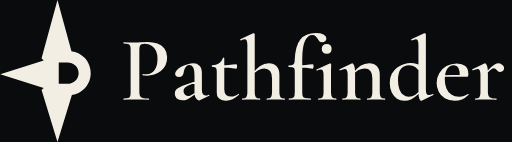
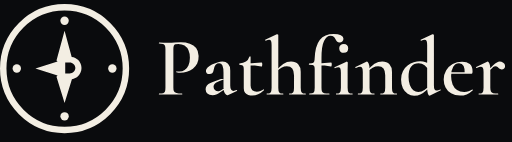
feat: Dial component and dial brand assets

Changed region(s): [[0.0, 0.0, 1.0, 0.9859]]

diff --git a/src/components/Dial.tsx b/src/components/Dial.tsx
@@ -1,0 +1,48 @@
+// The Pathfinder logo. Drawn from the brand file's `dial` and `mark` components
+// (Figma YvFbHaXgIBzzJlHoHpuzyw). The colour comes from currentColor, set to the
+// --brand-mark token, so the logo follows tokens.json.
+
+/** Below this size the dots stop reading, so the logo drops to the star alone. */
+export const DIAL_MIN_SIZE = 24
+
+const dots: ReadonlyArray<readonly [number, number]> = [[100, 26], [174, 100], [100, 174], [26, 100]]
+
+// The compass rose P on the dial's 200 grid: 112 tall, ray crossing at (100, 100).
+const dialStar =
+  'M111.03 81.9359C114.845 82.3962 118.42 84.1318 121.165 86.8969C124.396 90.1524 126.211 94.5682 126.211 99.1722C126.211 103.776 124.396 108.192 121.165 111.448C118.501 114.131 115.054 115.844 111.366 116.364L100 153.493L87.4624 112.537L89.1343 110.866L54.8657 100L89.1343 89.1342L87.4624 87.4623L99.9995 41.4926L111.03 81.9359ZM101.011 90.7728V107.573H107.846C110.192 107.573 112.442 106.688 114.101 105.113C115.76 103.537 116.691 101.4 116.691 99.1722C116.691 96.9446 115.76 94.808 114.101 93.2328C112.442 91.6575 110.192 90.7728 107.846 90.7728H101.011Z'
+
+// The compass rose P alone, the mark's own drawing (brand/mark.svg).
+const markStar =
+  'M65.445 36.1104C68.8512 36.5213 72.0433 38.0711 74.4938 40.54C77.379 43.4468 78.9997 47.3892 78.9997 51.5C78.9997 55.6108 77.379 59.5532 74.4938 62.46C72.1151 64.8565 69.0376 66.386 65.7438 66.8496L55.5974 100L44.403 63.4326L45.8952 61.9404L15.2985 52.2393L45.8952 42.5371L44.403 41.0449L55.5974 0L65.445 36.1104ZM56.4997 44V59H62.6022C64.6968 59 66.7061 58.2102 68.1872 56.8037C69.6683 55.3972 70.4997 53.4891 70.4997 51.5C70.4997 49.5109 69.6683 47.6028 68.1872 46.1963C66.7061 44.7898 64.6968 44 62.6022 44H56.4997Z'
+
+export interface DialProps {
+  size?: number
+  label?: string
+}
+
+export function Dial({ size = 40, label = 'Pathfinder' }: DialProps) {
+  const full = size >= DIAL_MIN_SIZE
+  return (
+    <svg
+      width={size}
+      height={size}
+      viewBox={full ? '0 0 200 200' : '-2.8 0 100 100'}
+      fill="none"
+      role="img"
+      aria-label={label}
+      style={{ color: 'var(--brand-mark)', flexShrink: 0 }}
+    >
+      {full ? (
+        <>
+          <circle cx={100} cy={100} r={95} stroke="currentColor" strokeWidth={10} />
+          {dots.map(([cx, cy]) => (
+            <circle key={`${cx}-${cy}`} cx={cx} cy={cy} r={6.5} fill="currentColor" />
+          ))}
+          <path d={dialStar} fill="currentColor" />
+        </>
+      ) : (
+        <path d={markStar} fill="currentColor" fillRule="evenodd" />
+      )}
+    </svg>
+  )
+}

diff --git a/src/components/Dial.test.tsx b/src/components/Dial.test.tsx
@@ -1,0 +1,33 @@
+import { render, screen } from '@testing-library/react'
+import { describe, expect, it } from 'vitest'
+import { Dial, DIAL_MIN_SIZE } from './Dial'
+
+describe('Dial', () => {
+  it('is an image named Pathfinder at the default size', () => {
+    render(<Dial />)
+    const svg = screen.getByRole('img', { name: 'Pathfinder' })
+    expect(svg.getAttribute('width')).toBe('40')
+    expect(svg.getAttribute('height')).toBe('40')
+    expect(svg.getAttribute('viewBox')).toBe('0 0 200 200')
+  })
+
+  it('renders the dial at 24px', () => {
+    expect(DIAL_MIN_SIZE).toBe(24)
+    render(<Dial size={24} />)
+    const svg = screen.getByRole('img')
+    expect(svg.querySelectorAll('circle')).toHaveLength(5)
+    expect(svg.querySelectorAll('path')).toHaveLength(1)
+  })
+
+  it('renders the star alone at 23px', () => {
+    render(<Dial size={23} />)
+    const svg = screen.getByRole('img')
+    expect(svg.querySelectorAll('circle')).toHaveLength(0)
+    expect(svg.querySelectorAll('path')).toHaveLength(1)
+  })
+
+  it('takes a label', () => {
+    render(<Dial label="Pathfinder home" />)
+    expect(screen.getByRole('img', { name: 'Pathfinder home' })).toBeTruthy()
+  })
+})

diff --git a/src/components/Dial.stories.tsx b/src/components/Dial.stories.tsx
@@ -1,0 +1,31 @@
+import type { Meta, StoryObj } from '@storybook/react-vite'
+import { Dial } from './Dial'
+
+const meta = {
+  title: 'Components/Dial',
+  component: Dial,
+  tags: ['autodocs'],
+  argTypes: { size: { control: 'number' }, label: { control: 'text' } },
+  parameters: {
+    docs: {
+      description: {
+        component:
+          'The Pathfinder logo. At 24px and up it is the dial: a solid ring, four cardinal dots and the compass rose P. Below 24px it drops to the compass rose P alone, because the dots stop reading at that size. It is drawn in the brand mark colour and read as an image named "Pathfinder".',
+      },
+    },
+  },
+  decorators: [
+    (Story) => (
+      <div className="pf-ambient" style={{ padding: '24px', borderRadius: '14px' }}>
+        <Story />
+      </div>
+    ),
+  ],
+} satisfies Meta<typeof Dial>
+
+export default meta
+type Story = StoryObj<typeof meta>
+
+export const Default: Story = { args: { size: 40 } }
+export const Large: Story = { args: { size: 120 } }
+export const Small: Story = { args: { size: 20 } }

diff --git a/src/components/AppBar.test.tsx b/src/components/AppBar.test.tsx
@@ -3,10 +3,15 @@ import { describe, expect, it, vi } from 'vitest'
 import { AppBar } from './AppBar'
 
 describe('AppBar', () => {
-  it('shows the star ring and no back button by default', () => {
+  it('shows the dial and no back button by default', () => {
     render(<AppBar />)
     expect(screen.getByRole('img', { name: 'Pathfinder' })).toBeTruthy()
     expect(screen.queryByRole('button', { name: 'Back' })).toBeNull()
+  })
+
+  it('the disc shows the dial', () => {
+    render(<AppBar />)
+    expect(screen.getByRole('img', { name: 'Pathfinder' }).querySelectorAll('circle')).toHaveLength(5)
   })
 
   it('shows a working back button when onBack is given', () => {

diff --git a/src/components/AppBar.tsx b/src/components/AppBar.tsx
@@ -1,4 +1,4 @@
-import { StarRing } from './StarRing'
+import { Dial } from './Dial'
 import './AppBar.css'
 
 export interface AppBarProps {
@@ -26,7 +26,7 @@ export function AppBar({ onBack }: AppBarProps) {
         </button>
       )}
       <div className="pf-appbar__disc">
-        <StarRing size={40} />
+        <Dial size={34} />
       </div>
     </header>
   )

diff --git a/src/components/AppBar.css b/src/components/AppBar.css
@@ -36,5 +36,4 @@
   height: 52px;
   border-radius: 50%;
   background: var(--navy-800);
-  border: 1px solid color-mix(in srgb, var(--gold-500) 45%, transparent);
 }

diff --git a/decisions.md b/decisions.md
@@ -237,3 +237,7 @@ file in `specs/decisions/`.
 | Logo is the dial (solid ring, four cardinal dots, compass rose P) at 24px and up and the P star alone below 24px; the dotted star ring is retired | the 24 small dots fell below 2.3% of the mark's height and vanished at small sizes; the dial passed the 20px squint test at large sizes and the star keeps the P readable at 16px (approved by Jake 2026-10-17, brand file review frame now in archive / explorations) |
 | Brand file: the `seal` set was rebuilt in place and renamed `dial` (tone=gold, navy, cream; the malformed `star ring, navy` variant deleted), and every lockup, app icon and usage-sheet mark at 24px and up now uses a fresh dial instance; the `mark` set stays as the small cut | rebuilding in place kept the set's node id; swapped instances kept unscaled children because a boolean op cannot take SCALE constraints, so fresh instances rescaled proportionally were the reliable path; one logo concept in two components (dial, mark) matches the size rule |
 | Brand usage sheet: the seals section became "large uses" and its copy now describes the two cuts and the 24px rule; the don't examples stay on the mark | the seal was the old name for the ringed logo, which is now the primary; transform overrides on the don't tiles would be lost by swapping and the rules read the same on either cut |
+| StarRing renamed Dial and picks its cut by size (dial at 24px and up, the compass rose P alone below) | one component enforces the logo size rule, so no caller can put the dots at favicon size |
+| App bar disc drops its gold edge; the dial inside is 34px | the dial's own ring already draws that circle, and two rings read as a double outline |
+| Dial SVGs use the path exported from the Figma `dial` component, not a hand transform of the old star | Figma is the approved source; its export bakes the 112/137 scale about the ray crossing, so code and Figma share exact geometry |
+| Lockup: dial at 48px with the wordmark moved right to keep the same 10px gap; previews and og.png re-rendered with headless Chrome, og edited in place (old star painted out, dial aligned to the text's left edge) | the wordmark paths and the og layout were already right; only the mark changed. The og still carries v1 styling (blue rule), left for the alignment pass |

diff --git a/design.md b/design.md
@@ -58,6 +58,7 @@ components:               # 17 v2 components, built in code (Storybook) and in F
   - checkbox
   - compass-choice
   - date-chip
+  - dial
   - empty-state
   - glass-card
   - input
@@ -65,7 +66,6 @@ components:               # 17 v2 components, built in code (Storybook) and in F
   - progress-bar
   - read-row
   - schedule-row
-  - star-ring
   - tag
   - tally
   - toast
@@ -227,6 +227,7 @@ or spacing value in `src/components/`.
 | checkbox | native input underneath, styled box on top |
 | compass-choice | one large choice (64px minimum) in the sort step |
 | date-chip | when an item is due; state is derived from the date |
+| dial | the logo: solid ring, four cardinal dots and the compass rose P at 24px and up; the compass rose P alone below 24px |
 | empty-state | art, a line of copy and one action |
 | glass-card | container on the glass surface |
 | input | text field with helper and error text |
@@ -234,7 +235,6 @@ or spacing value in `src/components/`.
 | progress-bar | thin bar showing step of total |
 | read-row | one row of the snap read-back, tappable to correct |
 | schedule-row | a time, a title and a bearing in the week |
-| star-ring | the brand ring of dots around a star |
 | tag | translucent tinted pill |
 | tally | done and moved marks in a row |
 | toast | status message on a floating surface |
